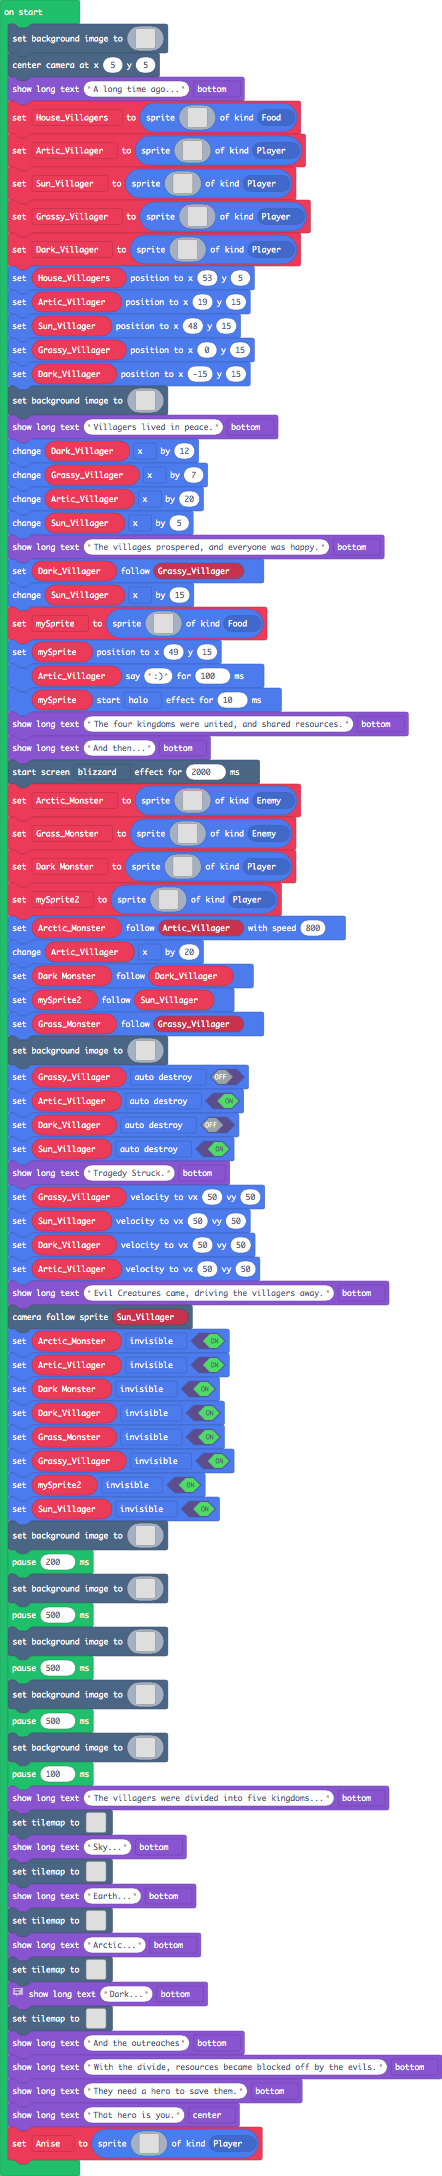
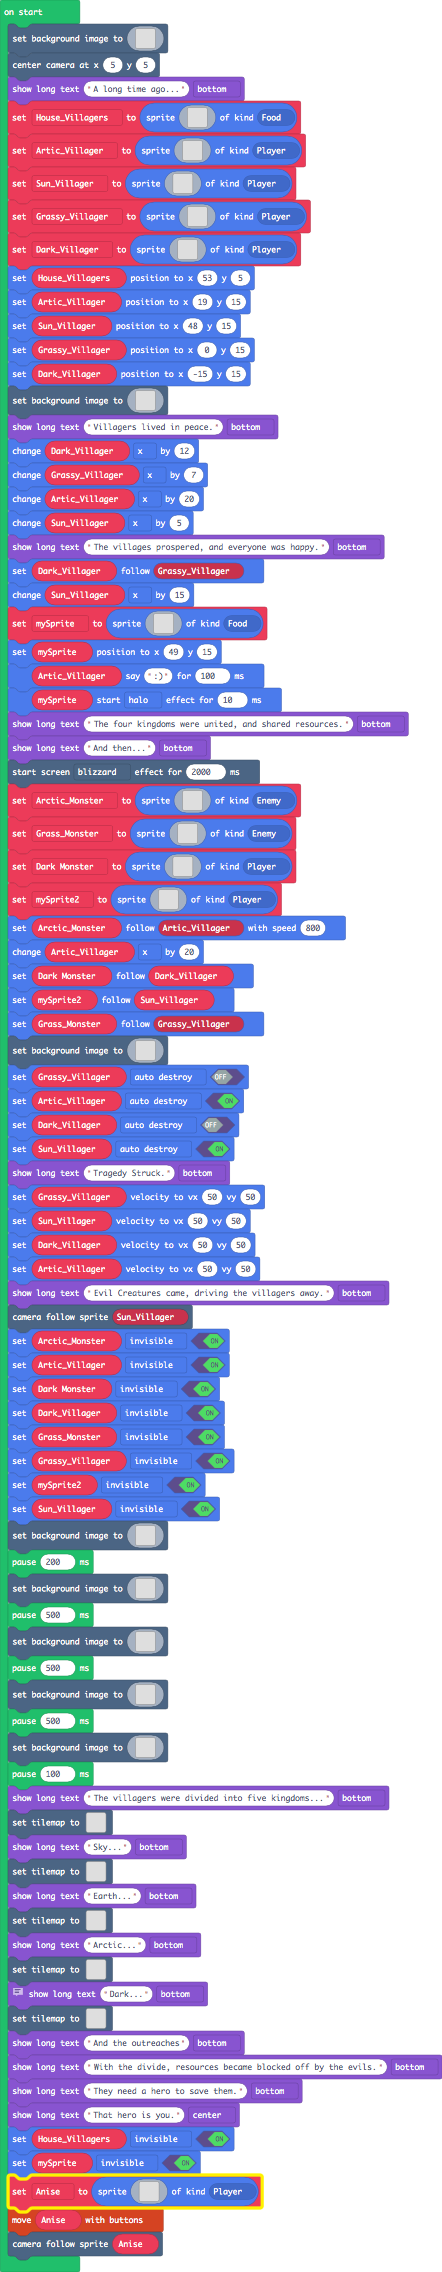
Update main.blocks, main.ts

diff --git a/main.ts b/main.ts
@@ -113,6 +113,44 @@ c c c c c c c c c c c c c c c c
 c c c c c c c c c c c c c c c c 
 c c c c c c c c c c c c c c c c 
 `
+    //% blockIdentity=images._tile
+    export const tile8 = img`
+6 8 7 7 7 7 7 7 7 7 7 7 7 7 7 7 
+6 8 7 7 7 7 7 7 7 7 7 7 7 7 7 7 
+6 8 7 7 7 7 7 7 7 7 7 7 7 7 7 7 
+6 8 7 7 7 7 7 7 7 7 7 7 7 7 7 7 
+6 8 7 7 7 7 7 7 7 7 7 7 7 7 7 7 
+6 8 7 7 7 7 7 7 7 7 7 7 7 7 7 7 
+6 8 7 7 7 7 7 7 7 7 7 7 7 7 7 7 
+6 8 7 7 7 7 7 7 7 7 7 7 7 7 7 7 
+6 8 7 7 7 7 7 7 7 7 7 7 7 7 7 7 
+6 8 7 7 7 7 7 7 7 7 7 7 7 7 7 7 
+6 8 7 7 7 7 7 7 7 7 7 7 7 7 7 7 
+6 8 7 7 7 7 7 7 7 7 7 7 7 7 7 7 
+6 8 7 7 7 7 7 7 7 7 7 7 7 7 7 7 
+6 8 7 7 7 7 7 7 7 7 7 7 7 7 7 7 
+6 8 8 8 8 8 8 8 8 8 7 7 7 7 7 7 
+6 6 6 6 6 6 6 6 6 8 8 8 8 8 8 8 
+`
+    //% blockIdentity=images._tile
+    export const tile9 = img`
+7 7 7 7 7 7 7 7 7 7 7 7 7 7 7 7 
+7 d 7 d 7 d 7 d 7 d 7 d 7 d 7 d 
+7 7 7 7 7 7 7 7 7 7 7 7 7 7 7 7 
+7 d 7 d 7 d 7 d 7 d 7 d 7 d 7 d 
+7 7 7 7 7 7 7 d d 7 7 7 7 7 7 7 
+7 d 7 d 7 d d d d d 7 d 7 d 7 d 
+7 7 7 7 7 7 d 6 6 d 7 7 7 7 7 7 
+7 d d d d d d 6 6 d 7 d 7 d 7 d 
+d d 6 6 6 d 6 6 6 d 7 7 7 7 7 d 
+6 6 6 6 6 6 6 6 6 d 7 d 7 d d d 
+6 6 6 6 6 6 6 6 6 d 7 7 7 d d d 
+6 6 6 6 6 6 6 6 6 d 7 d d d 6 6 
+6 6 6 6 6 6 6 6 6 d d d 6 6 6 6 
+6 6 6 6 6 6 6 6 6 6 d d 6 6 6 6 
+6 6 6 6 6 6 6 6 6 6 6 6 6 6 6 6 
+6 6 6 6 6 6 6 6 6 6 6 6 6 6 6 6 
+`
 }
 scene.setBackgroundImage(img`
 6 6 6 6 6 6 6 6 6 6 6 6 6 6 6 6 6 6 6 6 6 6 6 6 6 6 6 6 6 6 6 6 6 6 6 6 6 6 6 6 6 6 6 6 6 6 6 6 6 6 6 6 6 6 6 6 6 6 6 6 6 6 6 6 6 6 6 6 6 6 6 6 6 6 6 6 6 6 6 6 6 6 6 6 6 6 6 6 6 6 6 6 6 6 6 6 6 6 6 6 6 6 6 6 6 6 6 6 6 6 6 6 6 6 6 6 6 6 6 6 6 6 6 6 6 6 6 6 6 6 6 6 6 6 6 6 6 6 6 6 6 6 6 6 6 6 6 6 6 6 6 6 6 6 6 6 6 6 6 6 
@@ -1395,7 +1433,7 @@ tiles.setTilemap(tiles.createTilemap(
 . . . . . . . . . . . . . . . . 
 . . . . . . . . . . . . . . . . 
 `,
-            [myTiles.tile0,sprites.builtin.coral2,sprites.castle.tilePath5,myTiles.tile2,myTiles.tile3,sprites.castle.tileDarkGrass2,sprites.castle.tileDarkGrass3,sprites.builtin.forestTiles0,sprites.castle.tileGrass1,myTiles.tile4,sprites.builtin.forestTiles23,sprites.builtin.forestTiles19,sprites.builtin.forestTiles28,sprites.builtin.oceanDepths11,sprites.builtin.oceanDepths10,sprites.builtin.oceanSand15,sprites.dungeon.darkGroundCenter,sprites.dungeon.greenOuterNorth0,sprites.dungeon.greenInnerSouthEast,sprites.dungeon.greenInnerSouthWest,sprites.dungeon.greenOuterEast2,sprites.dungeon.stairSouth,sprites.builtin.brick,sprites.dungeon.hazardLava1,myTiles.tile5,myTiles.tile6],
+            [myTiles.tile0,sprites.builtin.coral2,sprites.castle.tilePath5,myTiles.tile2,myTiles.tile3,sprites.castle.tileDarkGrass2,sprites.castle.tileDarkGrass3,sprites.builtin.forestTiles0,sprites.castle.tileGrass1,myTiles.tile4,sprites.builtin.forestTiles23,sprites.builtin.forestTiles19,sprites.builtin.forestTiles28,sprites.builtin.oceanDepths11,sprites.builtin.oceanDepths10,sprites.builtin.oceanSand15,sprites.dungeon.darkGroundCenter,sprites.dungeon.greenOuterNorth0,sprites.dungeon.greenInnerSouthEast,sprites.dungeon.greenInnerSouthWest,sprites.dungeon.greenOuterEast2,sprites.dungeon.stairSouth,sprites.builtin.brick,sprites.dungeon.hazardLava1,myTiles.tile5,myTiles.tile6,myTiles.tile8,myTiles.tile9],
             TileScale.Sixteen
         ))
 game.showLongText("Sky...", DialogLayout.Bottom)
@@ -1419,7 +1457,7 @@ tiles.setTilemap(tiles.createTilemap(
 . . . . . . . . . . . . . . . . 
 . . . . . . . . . . . . . . . . 
 `,
-            [myTiles.tile0,myTiles.tile2,myTiles.tile3,myTiles.tile4,myTiles.tile5,myTiles.tile6,sprites.castle.tilePath1,sprites.castle.tileGrass1,sprites.castle.tileGrass3],
+            [myTiles.tile0,myTiles.tile2,myTiles.tile3,myTiles.tile4,myTiles.tile5,myTiles.tile6,sprites.castle.tilePath1,sprites.castle.tileGrass1,sprites.castle.tileGrass3,myTiles.tile8,myTiles.tile9],
             TileScale.Sixteen
         ))
 game.showLongText("Earth...", DialogLayout.Bottom)
@@ -1443,7 +1481,7 @@ tiles.setTilemap(tiles.createTilemap(
 . . . . . . . . . . . . . . . . 
 . . . . . . . . . . . . . . . . 
 `,
-            [myTiles.tile0,sprites.builtin.coral2,sprites.castle.tilePath5,myTiles.tile2,myTiles.tile3,sprites.castle.tileDarkGrass2,sprites.castle.tileDarkGrass3,sprites.builtin.forestTiles0,sprites.castle.tileGrass1,myTiles.tile4,myTiles.tile5,myTiles.tile6],
+            [myTiles.tile0,sprites.builtin.coral2,sprites.castle.tilePath5,myTiles.tile2,myTiles.tile3,sprites.castle.tileDarkGrass2,sprites.castle.tileDarkGrass3,sprites.builtin.forestTiles0,sprites.castle.tileGrass1,myTiles.tile4,myTiles.tile5,myTiles.tile6,myTiles.tile8,myTiles.tile9],
             TileScale.Sixteen
         ))
 game.showLongText("Arctic...", DialogLayout.Bottom)
@@ -1467,7 +1505,7 @@ tiles.setTilemap(tiles.createTilemap(
 . . . . . . . . . . . . . . . . 
 . . . . . . . . . . . . . . . . 
 `,
-            [myTiles.tile0,myTiles.tile2,myTiles.tile3,myTiles.tile4,myTiles.tile5,myTiles.tile6],
+            [myTiles.tile0,myTiles.tile2,myTiles.tile3,myTiles.tile4,myTiles.tile5,myTiles.tile6,myTiles.tile8,myTiles.tile9],
             TileScale.Sixteen
         ))
 // WOW This is quite a story!  I love what you have
@@ -1477,101 +1515,51 @@ tiles.setTilemap(tiles.createTilemap(
 // Thank you!
 game.showLongText("Dark...", DialogLayout.Bottom)
 tiles.setTilemap(tiles.createTilemap(
-            hex`1000100009080808080808080808080808080809070707070707070707080808080808080808080808080808070708080808080808080808080808080807070707080808080808080808080808080808070708080808080808080808080808080808080808080808080808080808080707070707080808080808080808070707080808080808080808080807070708080808080808080807070707070808080808080808080807070808080808080808080808080808080808080808080808080808080807070707070808080808080808080808080808080807070808070707070808080808080808080707070708080707070809080808080808080808080808080709`,
[1 lines of base64/hex data omitted]
             img`
 . . . . . . . . . . . . . . . . 
-2 2 2 2 2 2 2 2 . . . . . . . . 
-. . . . . . . 2 2 2 . . . . . . 
-. . . . . . . . . 2 2 2 2 . . . 
-. . . . . . . . . . . . 2 2 . . 
 . . . . . . . . . . . . . . . . 
-. . . . . . . . . . . 2 2 2 2 2 
-. . . . . . 2 2 2 2 2 2 . . . . 
-. . . . . 2 2 . . . . . . . . . 
-. . . 2 2 . . . . . . . . . . . 
-. . 2 2 . . . . . . . . . . . . 
 . . . . . . . . . . . . . . . . 
-2 2 2 2 2 . . . . . . . . . . . 
-. . . . 2 2 2 . . 2 2 2 2 . . . 
-. . . . . . 2 2 2 2 . . 2 2 2 . 
-. . . . . . . . . . . . . . 2 2 
+. . . . . . . . . . . . . . . . 
+. . . . . . . . . . . . . . . . 
+. . . . . . . . . . . . . . . . 
+. . . . . . . . . . . . . . . . 
+. . . . . . . . . . . . . . . . 
+. . . . . . . . . . . . . . . . 
+. . . . . . . . . . . . . . . . 
+. . . . . . . . . . . . . . . . 
+. . . . . . . . . . . . . . . . 
+. . . . . . . . . . . . . . . . 
+. . . . . . . . . . . . . . . . 
+. . . . . . . . . . . . . . . . 
+. . . . . . . . . . . . . . . . 
 `,
-            [myTiles.tile0,myTiles.tile2,myTiles.tile3,myTiles.tile4,myTiles.tile5,myTiles.tile6,sprites.castle.tileGrass2,sprites.castle.tilePath5,sprites.castle.tilePath1,sprites.castle.tilePath3],
+            [myTiles.tile0,myTiles.tile2,myTiles.tile3,myTiles.tile4,myTiles.tile5,myTiles.tile6,sprites.castle.tileGrass2,sprites.castle.tilePath5,sprites.castle.tilePath1,sprites.castle.tilePath3,myTiles.tile8,sprites.builtin.forestTiles3,sprites.builtin.forestTiles1,sprites.builtin.forestTiles4,sprites.builtin.forestTiles23,sprites.builtin.forestTiles17,sprites.builtin.forestTiles19,sprites.builtin.forestTiles20,sprites.builtin.oceanSand15,sprites.builtin.oceanSand14,sprites.castle.shrub,sprites.castle.saplingOak,sprites.builtin.brick,sprites.builtin.crowd7,sprites.dungeon.hazardLava0,sprites.dungeon.hazardWater,myTiles.tile9],
             TileScale.Sixteen
         ))
 game.showLongText("And the outreaches", DialogLayout.Bottom)
 game.showLongText("With the divide, resources became blocked off by the evils.", DialogLayout.Bottom)
 game.showLongText("They need a hero to save them.", DialogLayout.Bottom)
 game.showLongText("That hero is you.", DialogLayout.Center)
+House_Villagers.setFlag(SpriteFlag.Invisible, true)
+mySprite.setFlag(SpriteFlag.Invisible, true)
 let Anise = sprites.create(img`
-. . . . . . . . . . . . . . . . . . . . . . . . . . . . . . . . . . . . . . . . . . . . . . . . . . 
-. . . . . . . . . . . . . . . . . . . . . . . . . . . . . . . . . . . . . . . . . . . . . . . . . . 
-. . . . . . . . . . . . . . . . . . . . . . . . . . . . . . . . . . . . . . . . . . . . . . . . . . 
-. . . . . . . . . . . . . . . . . . . . . . . . . . . . . . . . . . . . . . . . . . . . . . . . . . 
-. . . . . . . . . . . . . . . . f f f f f f f f . . . . . . . . . . . . . . . . . . . . . . . . . . 
-. . . . . . . . . . . . . . . f f f f f f f f f f . . . . . . . . . . . . . . . . . . . . . . . . . 
-. . . . . . . . . . . . . . . f f f f f f f f f f . . . . . . . . . . . . . . . . . . . . . . . . . 
-. . . . . . . . . . . . . . . f f f f f e e f f f . . . . . . . . . . . . . . . . . . . . . . . . . 
-. . . . . . . . . . . . . . . f f f f e e e e f f . . . . . . . . . . . . . . . . . . . . . . . . . 
-. . . . . . . . . . . . . . . f e e e e e e e e f . . . . . . . . . . . . . . . . . . . . . . . . . 
-. . . . . . . . . . . . . . . e e e e e e e e e e . . . . . . . . . . . . . . . . . . . . . . . . . 
-. . . . . . . . . . . . . . e e e e f e e f e e e e . . . . . . . . . . . . . . . . . . . . . . . . 
-. . . . . . . . . . . . . . e e e e f e e f e e e e . . . . . . . . . . . . . . . . . . . . . . . . 
-. . . . . . . . . . . . . . e e e e f e e f e e e e . . . . . . . . . . . . . . . . . . . . . . . . 
-. . . . . . . . . . . . . . . e e e e e e e e e e . . . . . . . . . . . . . . . . . . . . . . . . . 
-. . . . . . . . . . . . . . . 2 e e e e e e e e 2 . . . . . . . . . . . . . . . . . . . . . . . . . 
-. . . . . . . . . . . . . . . f f . e e e e . . f . . . . . . . . . . . . . . . . . . . . . . . . . 
-. . . . . . . . . . . . . . . f f . e e e e . . f . . . . . . . . . . . . . . . . . . . . . . . . . 
-. . . . . . . . . . . . . . . f f . e e e e . . f f . . . . . . . . . . . . . . . . . . . . . . . . 
-. . . . . . . . . . . . . . 2 f e e e e e e e f f f 2 . . . . . . . . . . . . . . . . . . . . . . . 
-. . . . . . . . . . . 2 2 2 2 f f e e e e e e f f 4 2 2 2 . . . . . . . . . . . . . . . . . . . . . 
-. . . . . . . . . . . 2 2 2 4 f f f 2 2 2 2 2 f f f f 2 2 . . . . . . . . . . . . . . . . . . . . . 
-. . . . . . . . . . . 2 2 2 f f f f 2 2 2 2 2 f f f f 2 2 . . . . . . . . . . . . . . . . . . . . . 
-. . . . . . . . . . . 2 2 2 f f f f 2 2 2 2 2 2 f f 2 2 2 . . . . . . . . . . . . . . . . . . . . . 
-. . . . . . . . . . . . 2 2 4 f f 2 2 2 2 2 2 2 f f 4 2 2 . . . . . . . . . . . . . . . . . . . . . 
-. . . . . . . . . . . . e e e 4 2 2 2 2 2 2 2 2 2 4 e e e . . . . . . . . . . . . . . . . . . . . . 
-. . . . . . . . . . . . e e e 2 2 2 2 2 2 2 2 2 2 2 e e e . . . . . . . . . . . . . . . . . . . . . 
-. . . . . . . . . . . . e e e 2 2 2 2 2 2 2 2 2 2 2 e e e . . . . . . . . . . . . . . . . . . . . . 
-. . . . . . . . . . . . e e e 2 2 2 2 2 2 2 2 2 2 2 e e e . . . . . . . . . . . . . . . . . . . . . 
-. . . . . . . . . . . . e e e 2 2 2 2 2 2 2 2 2 2 2 e e e . . . . . . . . . . . . . . . . . . . . . 
-. . . . . . . . . . . . e e e 2 2 2 2 2 2 2 2 2 2 2 e e e . . . . . . . . . . . . . . . . . . . . . 
-. . . . . . . . . . . . e e e 2 2 2 2 2 2 2 2 2 2 2 e e e . . . . . . . . . . . . . . . . . . . . . 
-. . . . . . . . . . . . e e e 2 2 2 2 2 2 2 2 2 2 2 e e e . . . . . . . . . . . . . . . . . . . . . 
-. . . . . . . . . . . . e e e 2 2 2 2 2 2 2 2 2 2 2 e e e . . . . . . . . . . . . . . . . . . . . . 
-. . . . . . . . . . . . e e e 2 2 2 2 2 2 2 2 2 2 2 e e e . . . . . . . . . . . . . . . . . . . . . 
-. . . . . . . . . . . . e e e b 8 8 8 8 8 8 8 8 8 8 e e e . . . . . . . . . . . . . . . . . . . . . 
-. . . . . . . . . . . . e e . b 8 8 8 8 8 8 8 8 8 8 . e e . . . . . . . . . . . . . . . . . . . . . 
-. . . . . . . . . . . . e e . 8 8 8 8 8 8 8 8 8 8 8 . e e . . . . . . . . . . . . . . . . . . . . . 
-. . . . . . . . . . . . . . . 8 8 8 8 8 8 8 8 8 8 8 . e e . . . . . . . . . . . . . . . . . . . . . 
-. . . . . . . . . . . . . . . 8 8 8 8 8 8 8 8 8 8 8 . . . . . . . . . . . . . . . . . . . . . . . . 
-. . . . . . . . . . . . . . . 8 8 8 8 8 c 8 8 8 8 8 . . . . . . . . . . . . . . . . . . . . . . . . 
-. . . . . . . . . . . . . . . 8 8 8 8 8 c 8 8 8 8 8 . . . . . . . . . . . . . . . . . . . . . . . . 
-. . . . . . . . . . . . . . . 8 8 8 8 8 c 8 8 8 8 8 . . . . . . . . . . . . . . . . . . . . . . . . 
-. . . . . . . . . . . . . . . 8 8 8 8 8 c 8 8 8 8 8 . . . . . . . . . . . . . . . . . . . . . . . . 
-. . . . . . . . . . . . . . . 8 8 8 8 8 c 8 8 8 8 8 . . . . . . . . . . . . . . . . . . . . . . . . 
-. . . . . . . . . . . . . . . 8 8 8 8 8 c 8 8 8 8 8 . . . . . . . . . . . . . . . . . . . . . . . . 
-. . . . . . . . . . . . . . . 8 8 8 8 8 c 8 8 8 8 8 . . . . . . . . . . . . . . . . . . . . . . . . 
-. . . . . . . . . . . . . . . 8 8 8 8 8 c 8 8 8 8 8 . . . . . . . . . . . . . . . . . . . . . . . . 
-. . . . . . . . . . . . . . . 8 8 8 8 8 c 8 8 8 8 8 . . . . . . . . . . . . . . . . . . . . . . . . 
-. . . . . . . . . . . . . . . 8 8 8 8 8 c 8 8 8 8 8 . . . . . . . . . . . . . . . . . . . . . . . . 
-. . . . . . . . . . . . . . . 8 8 8 8 8 c 8 8 8 8 8 . . . . . . . . . . . . . . . . . . . . . . . . 
-. . . . . . . . . . . . . . . 8 8 8 8 8 c 8 8 8 8 8 . . . . . . . . . . . . . . . . . . . . . . . . 
-. . . . . . . . . . . . . . . 8 8 8 8 8 c 8 8 8 8 8 . . . . . . . . . . . . . . . . . . . . . . . . 
-. . . . . . . . . . . . . . . 8 8 8 8 8 c 8 8 8 8 8 . . . . . . . . . . . . . . . . . . . . . . . . 
-. . . . . . . . . . . . . . . 8 8 8 8 8 c 8 8 8 8 8 . . . . . . . . . . . . . . . . . . . . . . . . 
-. . . . . . . . . . . . . . . 8 8 8 8 8 c 8 8 8 8 8 . . . . . . . . . . . . . . . . . . . . . . . . 
-. . . . . . . . . . . . . . . 8 8 8 8 8 c 8 8 8 8 8 . . . . . . . . . . . . . . . . . . . . . . . . 
-. . . . . . . . . . . . . . . 8 8 8 8 8 c 8 8 8 8 8 . . . . . . . . . . . . . . . . . . . . . . . . 
-. . . . . . . . . . . . . . . 8 8 8 8 8 c 8 8 b 8 8 . . . . . . . . . . 4 4 4 4 . . . . . . . . . . 
-. . 4 4 4 4 4 . . . . . . . . 8 8 8 8 8 c 8 8 b b 8 . . . . . . 4 4 4 4 4 4 4 4 4 4 . . . . . . . . 
-. . 4 4 4 4 4 4 4 . . . . . . 8 8 8 8 8 c 8 8 8 8 8 . . . 4 4 4 4 4 4 4 4 4 4 4 4 4 . . . . . . . . 
-. . 4 4 4 4 4 4 4 4 4 4 4 4 4 4 8 8 8 8 c 8 8 8 8 8 . 4 4 4 4 4 4 4 4 4 4 4 4 4 4 4 . . . . . . . . 
-. . . 4 4 4 4 4 4 4 4 4 4 4 4 4 4 4 4 4 4 4 4 4 4 4 4 4 4 4 4 4 4 4 4 4 4 4 4 . . . . . . . . . . . 
-. . . 4 4 4 4 4 4 4 4 4 4 1 4 4 4 4 4 4 4 4 4 4 4 4 4 4 4 4 4 4 4 4 4 4 . . . . . . . . . . . . . . 
-. . . . . . . 4 4 4 4 1 1 1 4 4 4 4 4 4 4 4 4 4 4 4 4 4 4 4 4 4 4 4 4 . . . . . . . . . . . . . . . 
-. . . . . . . . . 4 4 4 4 4 4 4 4 4 4 4 4 4 4 4 4 4 4 4 4 4 4 4 4 4 . . . . . . . . . . . . . . . . 
-. . . . . . . . . . . . . . . . . . . . . . . . . . . . . . . . . . . . . . . . . . . . . . . . . . 
-. . . . . . . . . . . . . . . . . . . . . . . . . . . . . . . . . . . . . . . . . . . . . . . . . . 
-. . . . . . . . . . . . . . . . . . . . . . . . . . . . . . . . . . . . . . . . . . . . . . . . . . 
-. . . . . . . . . . . . . . . . . . . . . . . . . . . . . . . . . . . . . . . . . . . . . . . . . . 
+. f f f . f f f f . f f f . 
+f f f f f f f f f f f f f f 
+f f f f b f f f f b f f f f 
+f f f c 3 f f f f 3 c f f f 
+. f 3 3 f f f f f f 3 3 f . 
+. f f f f f e e f f f f f . 
+. f f f f e e e e f f f f . 
+. f f f b f e e f b f f f . 
+. f f e 1 f d d f 1 e f f . 
+. . f f d d d d d d f f . . 
+. . e f 2 2 2 2 2 2 f e . . 
+. e e f 4 2 2 2 4 4 f e e . 
+. e d f 4 2 2 2 4 2 c d e . 
+. e e f 2 2 2 2 2 2 f e e . 
+. . . . f f f f f f . . . . 
+. . . . f f . . f f . . . . 
 `, SpriteKind.Player)
+controller.moveSprite(Anise)
+scene.cameraFollowSprite(Anise)
